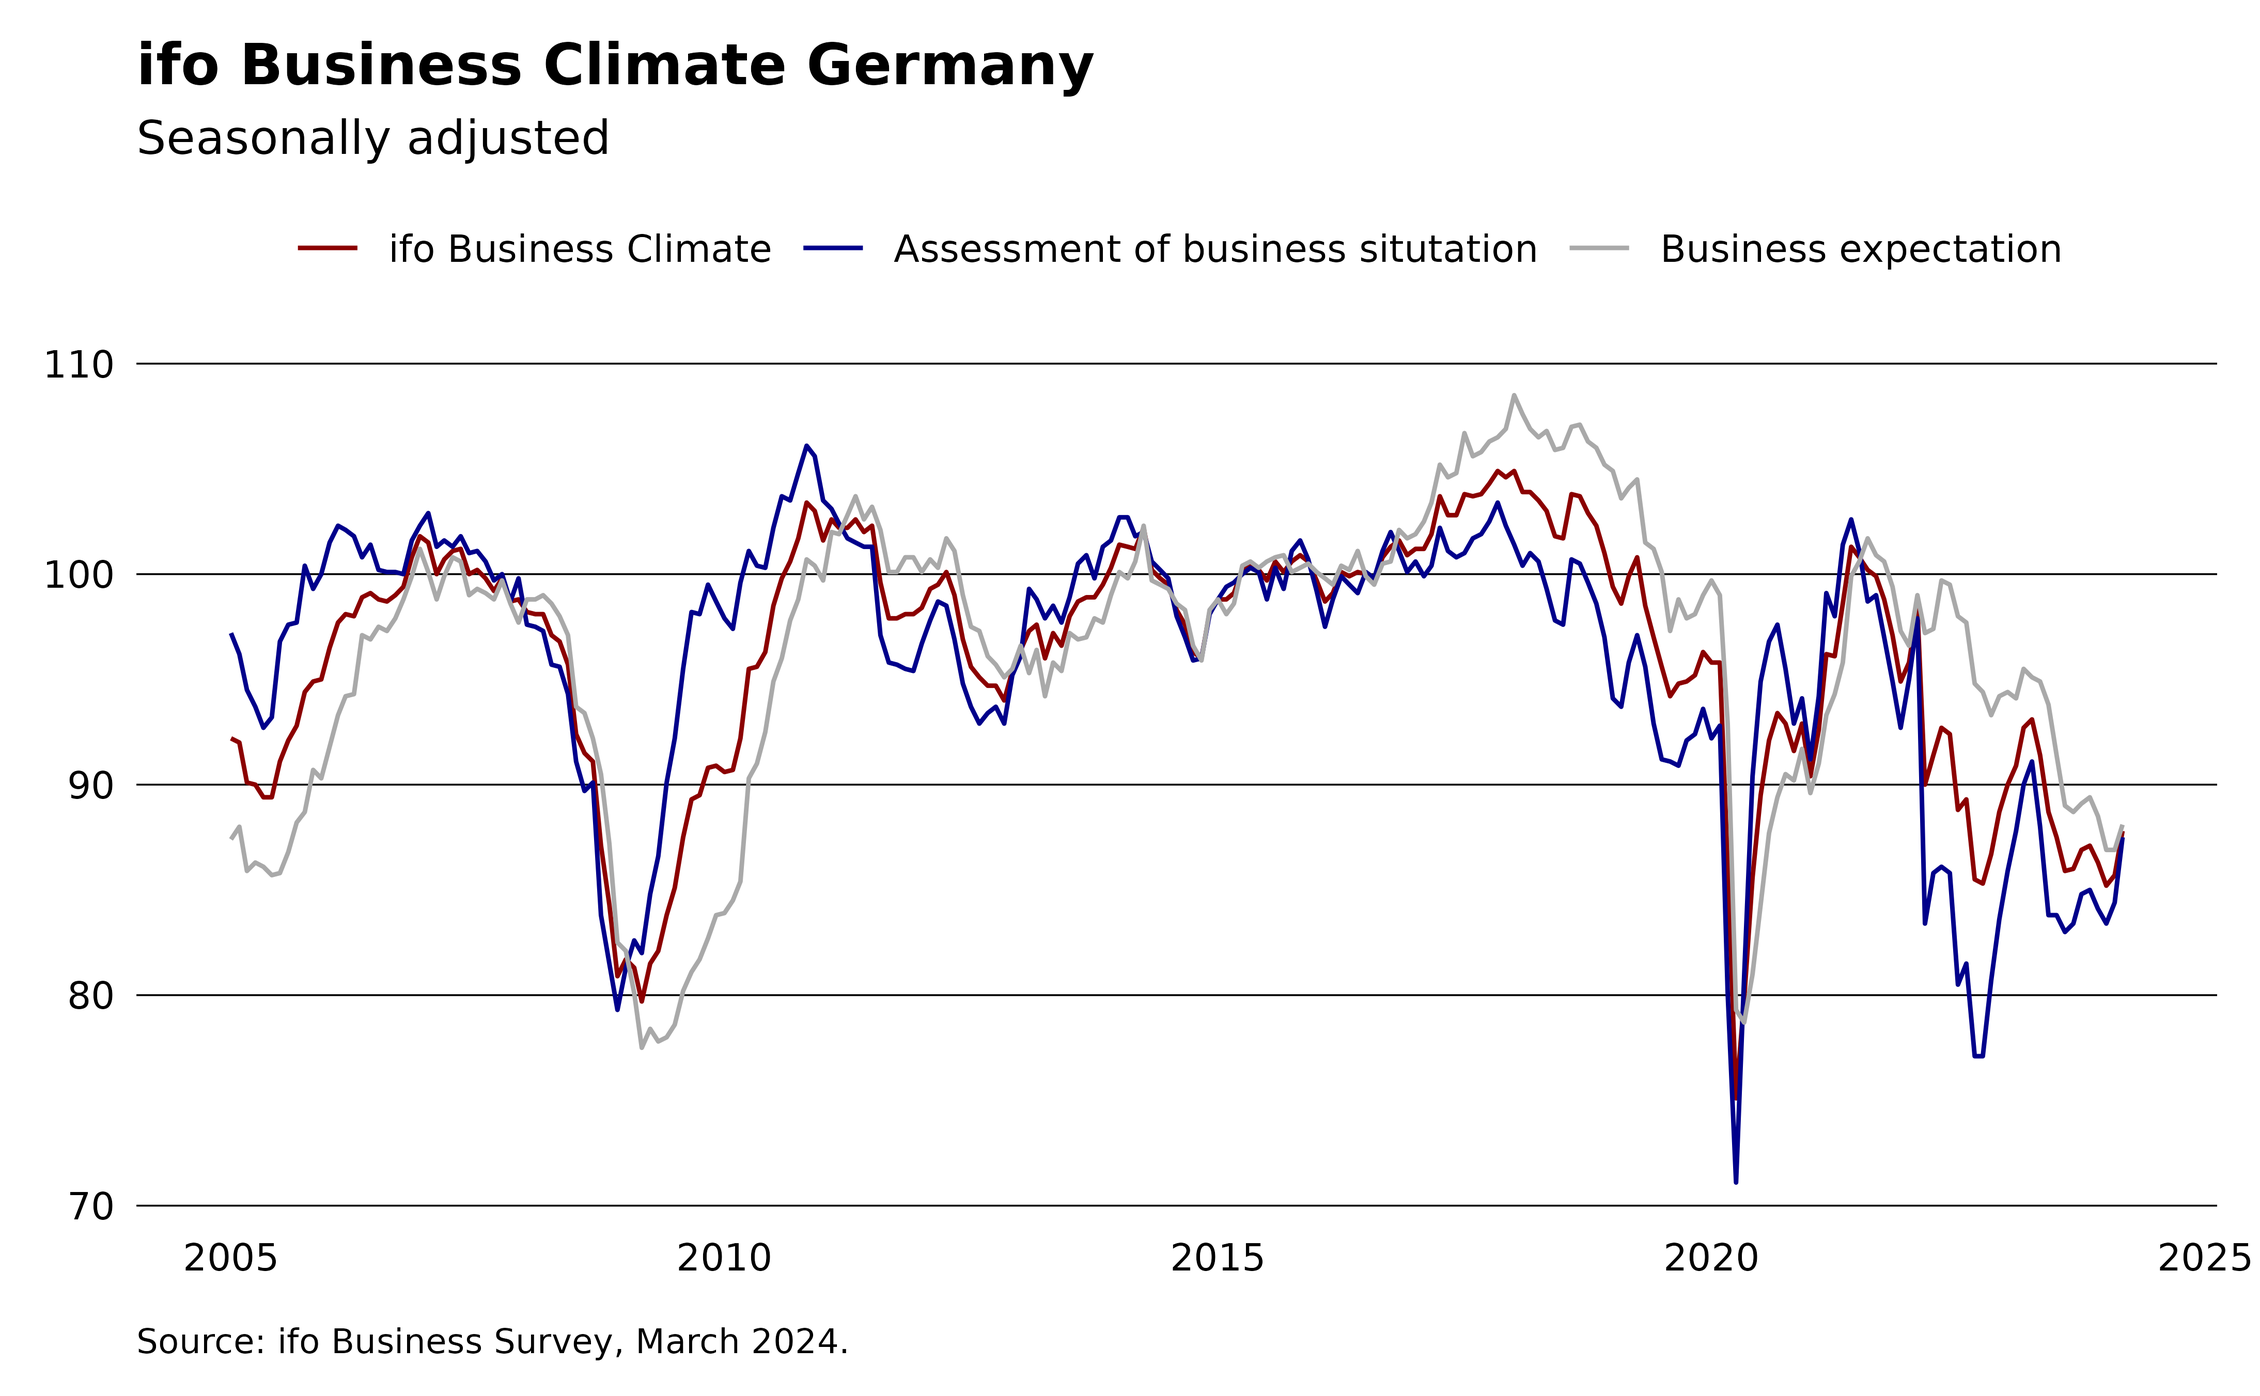
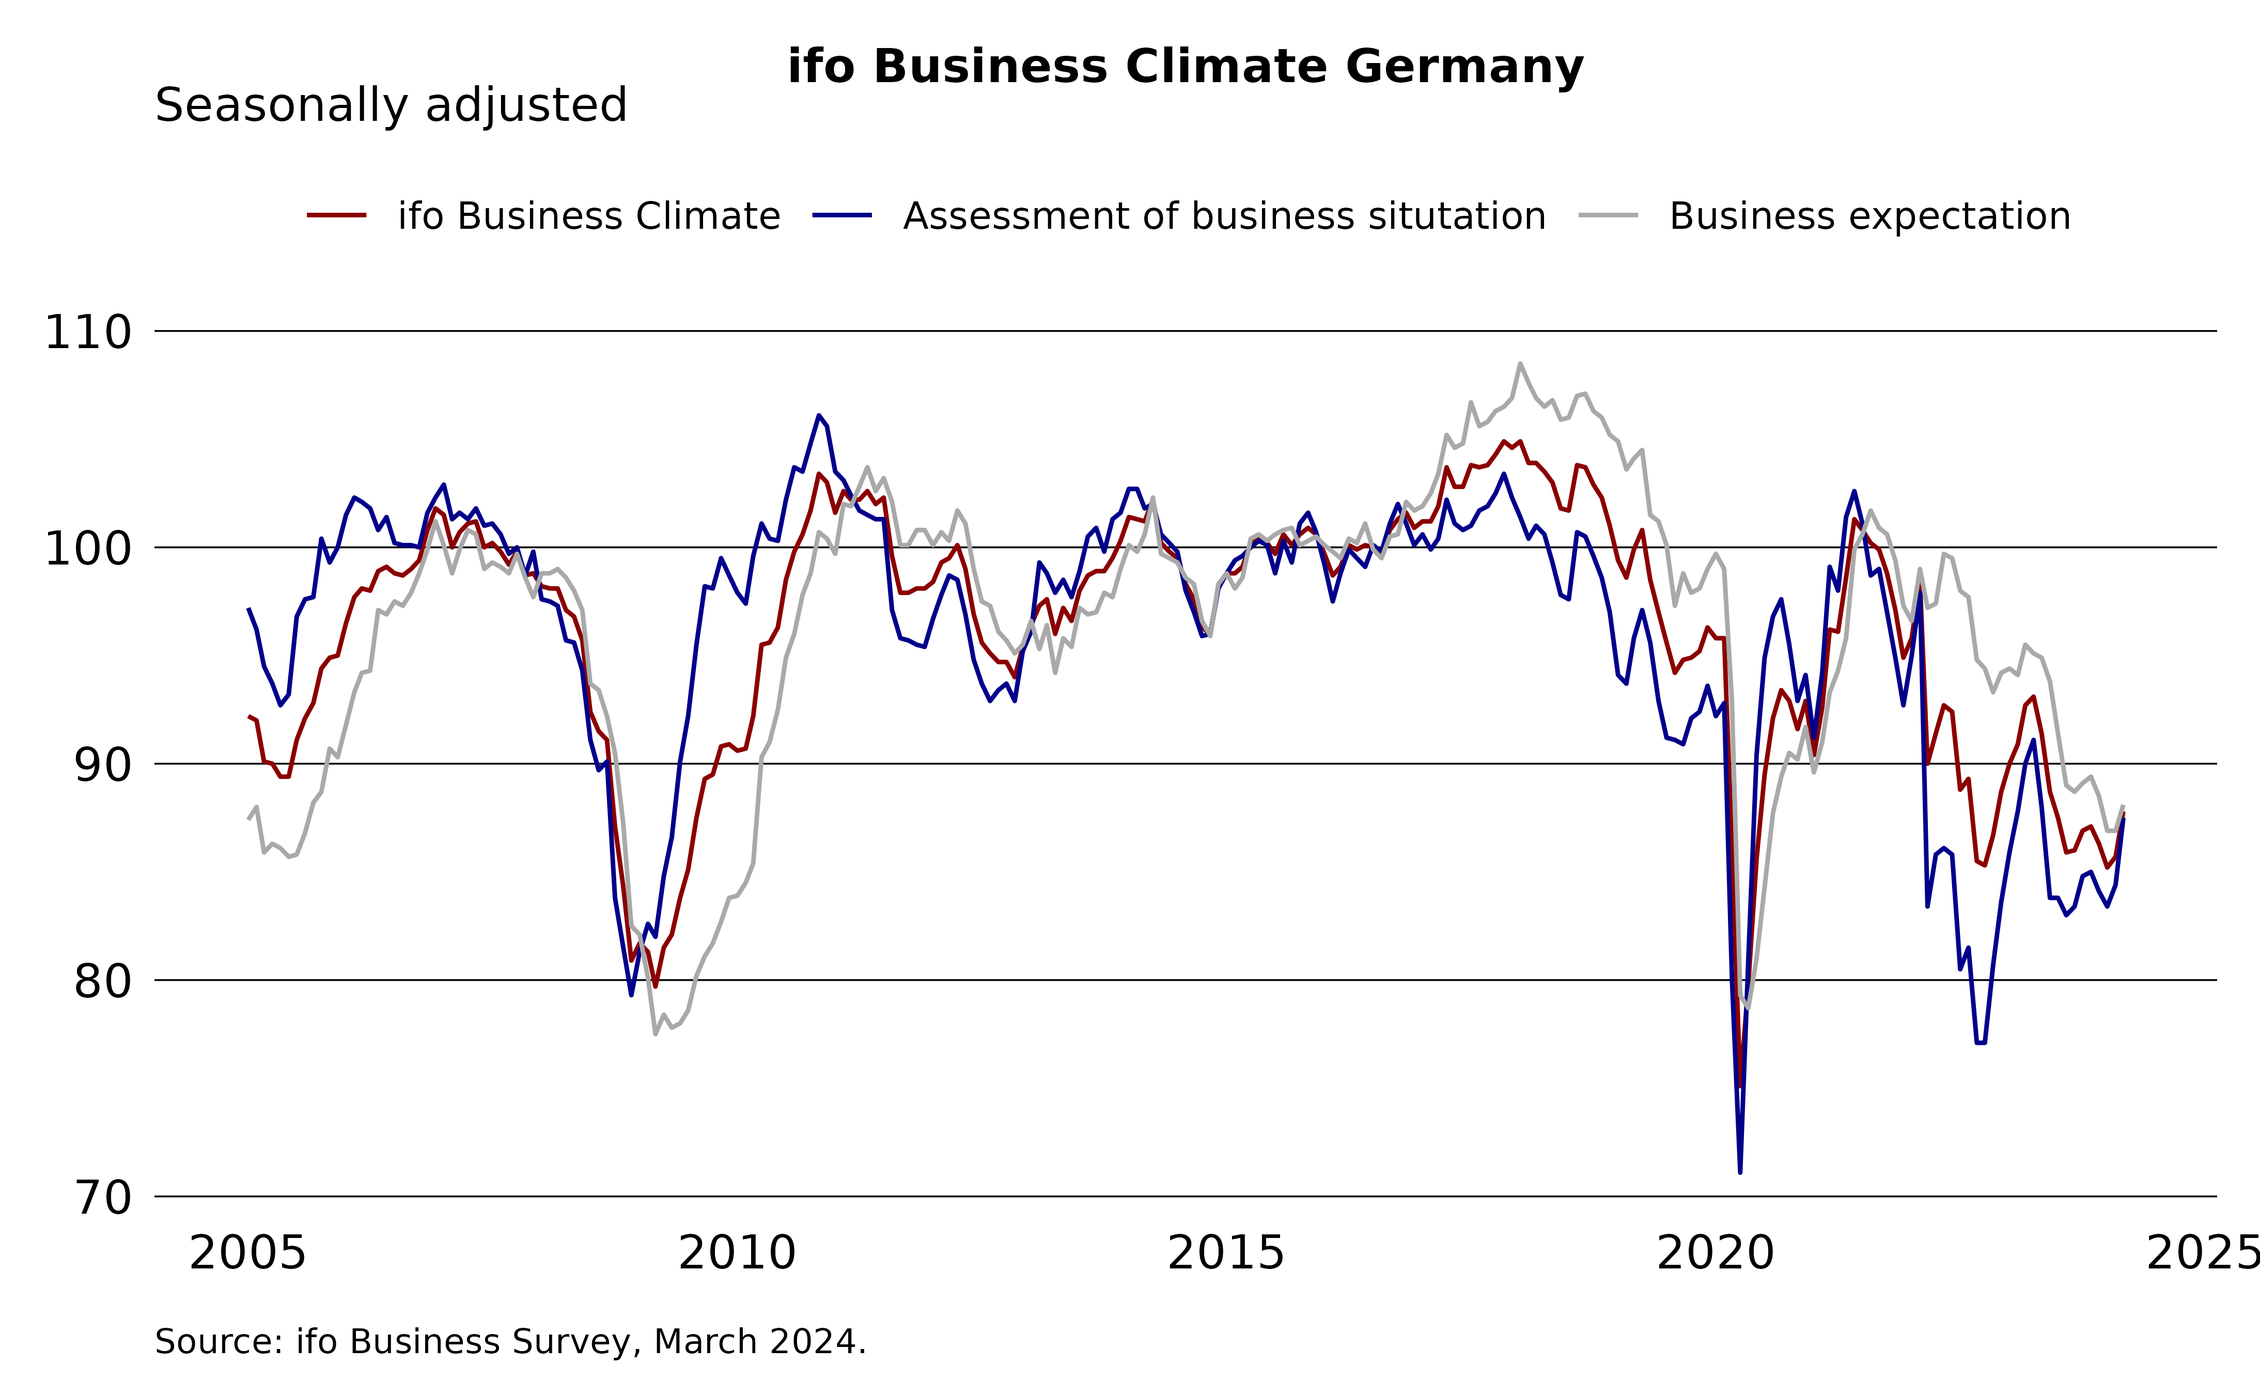
Deploying to gh-pages from @ m-muecke/ifo@727ba3c74b865bb1a18ef76225b3f522f24730d0 🚀

diff --git a/articles/publication.html b/articles/publication.html
@@ -80,26 +80,36 @@
 
     
     
-<p>The following will demonstrate how to use the <code>ifo</code>
-package to access the ifo Business Climate data and reproduce some of
-the plots from the ifo website.</p>
+<p>This vignette demonstrates how to access the ifo Business Climate
+data and reproduce some of the plots from the ifo <a href="https://www.ifo.de/en/survey/ifo-business-climate-index-germany" class="external-link">website</a>.</p>
+<div class="section level3">
+<h3 id="creating-a-new-theme">Creating a new theme<a class="anchor" aria-label="anchor" href="#creating-a-new-theme"></a>
+</h3>
+<p>We will start with creating a theme that is somewhat similar to the
+style of the ifo website. or see examples of themes in the <a href="https://cran.r-project.org/package=ggthemes" class="external-link">ggthemes</a> package.
+For more information on how to create custom themes, see the <a href="https://ggplot2.tidyverse.org/articles/ggplot2-in-packages.html#creating-a-new-theme" class="external-link">ggplot2
+documentation</a>.</p>
 <div class="sourceCode" id="cb1"><pre class="downlit sourceCode r">
 <code class="sourceCode R"><span><span class="kw"><a href="https://rdrr.io/r/base/library.html" class="external-link">library</a></span><span class="op">(</span><span class="va"><a href="https://ggplot2.tidyverse.org" class="external-link">ggplot2</a></span><span class="op">)</span></span>
 <span></span>
-<span><span class="va">ifo_theme</span> <span class="op">&lt;-</span> <span class="fu"><a href="https://ggplot2.tidyverse.org/reference/ggtheme.html" class="external-link">theme_minimal</a></span><span class="op">(</span><span class="op">)</span> <span class="op">+</span></span>
-<span>  <span class="fu"><a href="https://ggplot2.tidyverse.org/reference/theme.html" class="external-link">theme</a></span><span class="op">(</span></span>
-<span>    legend.title <span class="op">=</span> <span class="fu"><a href="https://ggplot2.tidyverse.org/reference/element.html" class="external-link">element_blank</a></span><span class="op">(</span><span class="op">)</span>,</span>
-<span>    legend.position <span class="op">=</span> <span class="st">"top"</span>,</span>
-<span>    plot.title <span class="op">=</span> <span class="fu"><a href="https://ggplot2.tidyverse.org/reference/element.html" class="external-link">element_text</a></span><span class="op">(</span>face <span class="op">=</span> <span class="st">"bold"</span><span class="op">)</span>,</span>
-<span>    plot.caption <span class="op">=</span> <span class="fu"><a href="https://ggplot2.tidyverse.org/reference/element.html" class="external-link">element_text</a></span><span class="op">(</span></span>
-<span>      hjust <span class="op">=</span> <span class="fl">0</span>, vjust <span class="op">=</span> <span class="fl">0</span>, size <span class="op">=</span> <span class="fl">8</span>, margin <span class="op">=</span> <span class="fu"><a href="https://ggplot2.tidyverse.org/reference/element.html" class="external-link">margin</a></span><span class="op">(</span><span class="fl">10</span>, <span class="fl">0</span>, <span class="fl">0</span>, <span class="fl">0</span><span class="op">)</span></span>
-<span>    <span class="op">)</span>,</span>
-<span>    panel.grid.major.y <span class="op">=</span> <span class="fu"><a href="https://ggplot2.tidyverse.org/reference/element.html" class="external-link">element_line</a></span><span class="op">(</span>color <span class="op">=</span> <span class="st">"black"</span>, linewidth <span class="op">=</span> <span class="fl">0.2</span><span class="op">)</span>,</span>
-<span>    panel.grid.major.x <span class="op">=</span> <span class="fu"><a href="https://ggplot2.tidyverse.org/reference/element.html" class="external-link">element_blank</a></span><span class="op">(</span><span class="op">)</span>,</span>
-<span>    panel.grid.minor <span class="op">=</span> <span class="fu"><a href="https://ggplot2.tidyverse.org/reference/element.html" class="external-link">element_blank</a></span><span class="op">(</span><span class="op">)</span>,</span>
-<span>    axis.text <span class="op">=</span> <span class="fu"><a href="https://ggplot2.tidyverse.org/reference/element.html" class="external-link">element_text</a></span><span class="op">(</span>color <span class="op">=</span> <span class="st">"black"</span><span class="op">)</span>,</span>
-<span>    plot.margin <span class="op">=</span> <span class="fu"><a href="https://ggplot2.tidyverse.org/reference/element.html" class="external-link">margin</a></span><span class="op">(</span><span class="fl">10</span>, <span class="fl">10</span>, <span class="fl">10</span>, <span class="fl">10</span><span class="op">)</span></span>
-<span>  <span class="op">)</span></span></code></pre></div>
+<span><span class="va">theme_ifo</span> <span class="op">&lt;-</span> <span class="kw">function</span><span class="op">(</span><span class="op">)</span> <span class="op">{</span></span>
+<span>  <span class="fu"><a href="https://ggplot2.tidyverse.org/reference/ggtheme.html" class="external-link">theme_minimal</a></span><span class="op">(</span><span class="op">)</span> <span class="op"><a href="https://ggplot2.tidyverse.org/reference/theme_get.html" class="external-link">%+replace%</a></span></span>
+<span>    <span class="fu"><a href="https://ggplot2.tidyverse.org/reference/theme.html" class="external-link">theme</a></span><span class="op">(</span></span>
+<span>      legend.title <span class="op">=</span> <span class="fu"><a href="https://ggplot2.tidyverse.org/reference/element.html" class="external-link">element_blank</a></span><span class="op">(</span><span class="op">)</span>,</span>
+<span>      legend.position <span class="op">=</span> <span class="st">"top"</span>,</span>
+<span>      plot.title <span class="op">=</span> <span class="fu"><a href="https://ggplot2.tidyverse.org/reference/element.html" class="external-link">element_text</a></span><span class="op">(</span>face <span class="op">=</span> <span class="st">"bold"</span><span class="op">)</span>,</span>
+<span>      plot.caption <span class="op">=</span> <span class="fu"><a href="https://ggplot2.tidyverse.org/reference/element.html" class="external-link">element_text</a></span><span class="op">(</span></span>
+<span>        hjust <span class="op">=</span> <span class="fl">0</span>, vjust <span class="op">=</span> <span class="fl">0</span>, size <span class="op">=</span> <span class="fl">8</span>, margin <span class="op">=</span> <span class="fu"><a href="https://ggplot2.tidyverse.org/reference/element.html" class="external-link">margin</a></span><span class="op">(</span><span class="fl">10</span>, <span class="fl">0</span>, <span class="fl">0</span>, <span class="fl">0</span><span class="op">)</span></span>
+<span>      <span class="op">)</span>,</span>
+<span>      panel.grid.major.y <span class="op">=</span> <span class="fu"><a href="https://ggplot2.tidyverse.org/reference/element.html" class="external-link">element_line</a></span><span class="op">(</span>color <span class="op">=</span> <span class="st">"black"</span>, linewidth <span class="op">=</span> <span class="fl">0.2</span><span class="op">)</span>,</span>
+<span>      panel.grid.major.x <span class="op">=</span> <span class="fu"><a href="https://ggplot2.tidyverse.org/reference/element.html" class="external-link">element_blank</a></span><span class="op">(</span><span class="op">)</span>,</span>
+<span>      panel.grid.minor <span class="op">=</span> <span class="fu"><a href="https://ggplot2.tidyverse.org/reference/element.html" class="external-link">element_blank</a></span><span class="op">(</span><span class="op">)</span>,</span>
+<span>      axis.text <span class="op">=</span> <span class="fu"><a href="https://ggplot2.tidyverse.org/reference/element.html" class="external-link">element_text</a></span><span class="op">(</span>color <span class="op">=</span> <span class="st">"black"</span><span class="op">)</span>,</span>
+<span>      axis.title <span class="op">=</span> <span class="fu"><a href="https://ggplot2.tidyverse.org/reference/element.html" class="external-link">element_blank</a></span><span class="op">(</span><span class="op">)</span>,</span>
+<span>      plot.margin <span class="op">=</span> <span class="fu"><a href="https://ggplot2.tidyverse.org/reference/element.html" class="external-link">margin</a></span><span class="op">(</span><span class="fl">10</span>, <span class="fl">10</span>, <span class="fl">10</span>, <span class="fl">10</span><span class="op">)</span></span>
+<span>    <span class="op">)</span></span>
+<span><span class="op">}</span></span></code></pre></div>
+</div>
 <div class="section level3">
 <h3 id="ifo-business-climate-germany">ifo Business Climate Germany<a class="anchor" aria-label="anchor" href="#ifo-business-climate-germany"></a>
 </h3>
@@ -115,7 +125,6 @@ the plots from the ifo website.</p>
 <span>  <span class="fu"><a href="https://ggplot2.tidyverse.org/reference/geom_path.html" class="external-link">geom_line</a></span><span class="op">(</span><span class="op">)</span> <span class="op">+</span></span>
 <span>  <span class="fu"><a href="https://ggplot2.tidyverse.org/reference/labs.html" class="external-link">labs</a></span><span class="op">(</span></span>
 <span>    title <span class="op">=</span> <span class="st">"ifo Business Climate Germany"</span>, subtitle <span class="op">=</span> <span class="st">"Seasonally adjusted"</span>,</span>
-<span>    y <span class="op">=</span> <span class="cn">NULL</span>, x <span class="op">=</span> <span class="cn">NULL</span>,</span>
 <span>    caption <span class="op">=</span> <span class="fu"><a href="https://rdrr.io/r/base/sprintf.html" class="external-link">sprintf</a></span><span class="op">(</span></span>
 <span>      <span class="st">"Source: ifo Business Survey, %s."</span>, <span class="fu"><a href="https://rdrr.io/r/base/format.html" class="external-link">format</a></span><span class="op">(</span><span class="fu"><a href="https://rdrr.io/r/base/Extremes.html" class="external-link">max</a></span><span class="op">(</span><span class="va">climate</span><span class="op">$</span><span class="va">yearmonth</span><span class="op">)</span>, <span class="st">"%B %Y"</span><span class="op">)</span></span>
 <span>    <span class="op">)</span></span>
@@ -128,7 +137,7 @@ the plots from the ifo website.</p>
 <span>      <span class="st">"Business expectation"</span></span>
 <span>    <span class="op">)</span></span>
 <span>  <span class="op">)</span> <span class="op">+</span></span>
-<span>  <span class="va">ifo_theme</span></span></code></pre></div>
+<span>  <span class="fu">theme_ifo</span><span class="op">(</span><span class="op">)</span></span></code></pre></div>
 <p><img src="publication_files/figure-html/climate-1.png" width="100%"></p>
 </div>
 <div class="section level3">
@@ -161,7 +170,6 @@ the plots from the ifo website.</p>
 <span>  <span class="fu"><a href="https://ggplot2.tidyverse.org/reference/labs.html" class="external-link">labs</a></span><span class="op">(</span></span>
 <span>    title <span class="op">=</span> <span class="st">"ifo Business Climate, Business Situation, and Expectations by Sector"</span>,</span>
 <span>    subtitle <span class="op">=</span> <span class="st">"Balances, seasonally adjusted"</span>,</span>
-<span>    y <span class="op">=</span> <span class="cn">NULL</span>, x <span class="op">=</span> <span class="cn">NULL</span>,</span>
 <span>    caption <span class="op">=</span> <span class="fu"><a href="https://rdrr.io/r/base/sprintf.html" class="external-link">sprintf</a></span><span class="op">(</span></span>
 <span>      <span class="st">"Source: ifo Business Survey, %s."</span>, <span class="fu"><a href="https://rdrr.io/r/base/format.html" class="external-link">format</a></span><span class="op">(</span><span class="fu"><a href="https://rdrr.io/r/base/Extremes.html" class="external-link">max</a></span><span class="op">(</span><span class="va">sectors</span><span class="op">$</span><span class="va">yearmonth</span><span class="op">)</span>, <span class="st">"%B %Y"</span><span class="op">)</span></span>
 <span>    <span class="op">)</span></span>
@@ -174,16 +182,12 @@ the plots from the ifo website.</p>
 <span>      <span class="st">"Business expectation"</span></span>
 <span>    <span class="op">)</span></span>
 <span>  <span class="op">)</span> <span class="op">+</span></span>
-<span>  <span class="va">ifo_theme</span></span></code></pre></div>
+<span>  <span class="fu">theme_ifo</span><span class="op">(</span><span class="op">)</span></span></code></pre></div>
 <p><img src="publication_files/figure-html/sector-1.png" width="100%"></p>
 </div>
 <div class="section level3">
 <h3 id="ifo-business-uncertainty-germany">ifo Business Uncertainty Germany<a class="anchor" aria-label="anchor" href="#ifo-business-uncertainty-germany"></a>
 </h3>
-<p>“The ifo Business Uncertainty measures how difficult it is for
-managers to predict the development of their company’s business
-situation over the next six months. The measure is calculated based on
-the weighted fractions of companies that fall into the answer …”</p>
 <div class="sourceCode" id="cb4"><pre class="downlit sourceCode r">
 <code class="sourceCode R"><span><span class="va">climate</span> <span class="op">|&gt;</span></span>
 <span>  <span class="fu"><a href="https://dplyr.tidyverse.org/reference/select.html" class="external-link">select</a></span><span class="op">(</span><span class="va">yearmonth</span>, <span class="va">uncertainty</span><span class="op">)</span> <span class="op">|&gt;</span></span>
@@ -192,12 +196,11 @@ the weighted fractions of companies that fall into the answer …”</p>
 <span>  <span class="fu"><a href="https://ggplot2.tidyverse.org/reference/geom_path.html" class="external-link">geom_line</a></span><span class="op">(</span><span class="op">)</span> <span class="op">+</span></span>
 <span>  <span class="fu"><a href="https://ggplot2.tidyverse.org/reference/labs.html" class="external-link">labs</a></span><span class="op">(</span></span>
 <span>    title <span class="op">=</span> <span class="st">"ifo Business Uncertainty Germany"</span>, subtitle <span class="op">=</span> <span class="st">"Original values"</span>,</span>
-<span>    y <span class="op">=</span> <span class="cn">NULL</span>, x <span class="op">=</span> <span class="cn">NULL</span>,</span>
 <span>    caption <span class="op">=</span> <span class="fu"><a href="https://rdrr.io/r/base/sprintf.html" class="external-link">sprintf</a></span><span class="op">(</span></span>
 <span>      <span class="st">"Source: ifo Business Survey, %s."</span>, <span class="fu"><a href="https://rdrr.io/r/base/format.html" class="external-link">format</a></span><span class="op">(</span><span class="fu"><a href="https://rdrr.io/r/base/Extremes.html" class="external-link">max</a></span><span class="op">(</span><span class="va">climate</span><span class="op">$</span><span class="va">yearmonth</span><span class="op">)</span>, <span class="st">"%B %Y"</span><span class="op">)</span></span>
 <span>    <span class="op">)</span></span>
 <span>  <span class="op">)</span> <span class="op">+</span></span>
-<span>  <span class="va">ifo_theme</span></span></code></pre></div>
+<span>  <span class="fu">theme_ifo</span><span class="op">(</span><span class="op">)</span></span></code></pre></div>
 <p><img src="publication_files/figure-html/uncertainty-1.png" width="100%"></p>
 </div>
   </main><aside class="col-md-3"><nav id="toc"><h2>On this page</h2>
